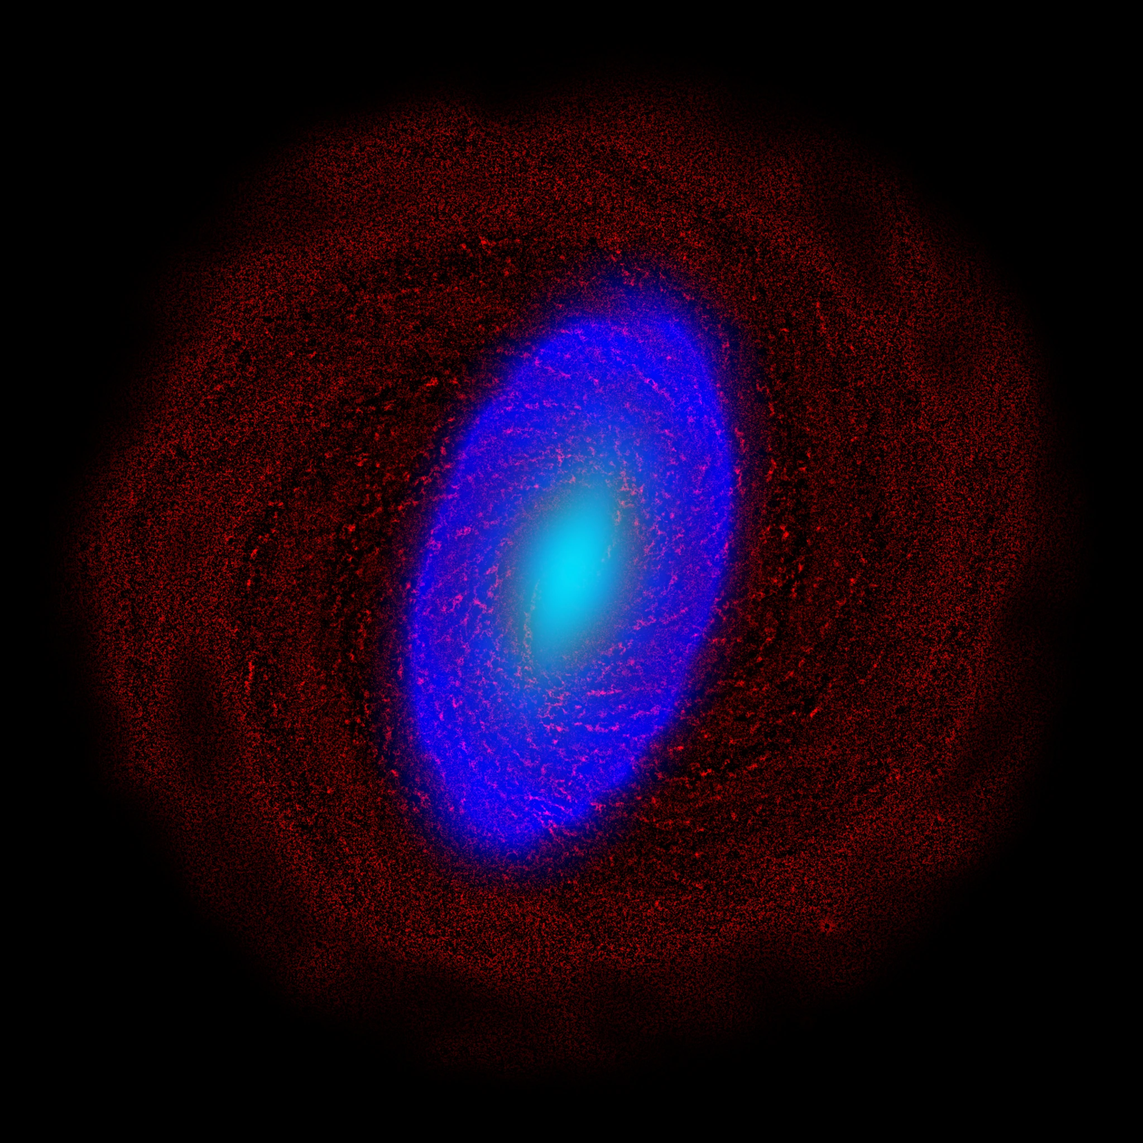
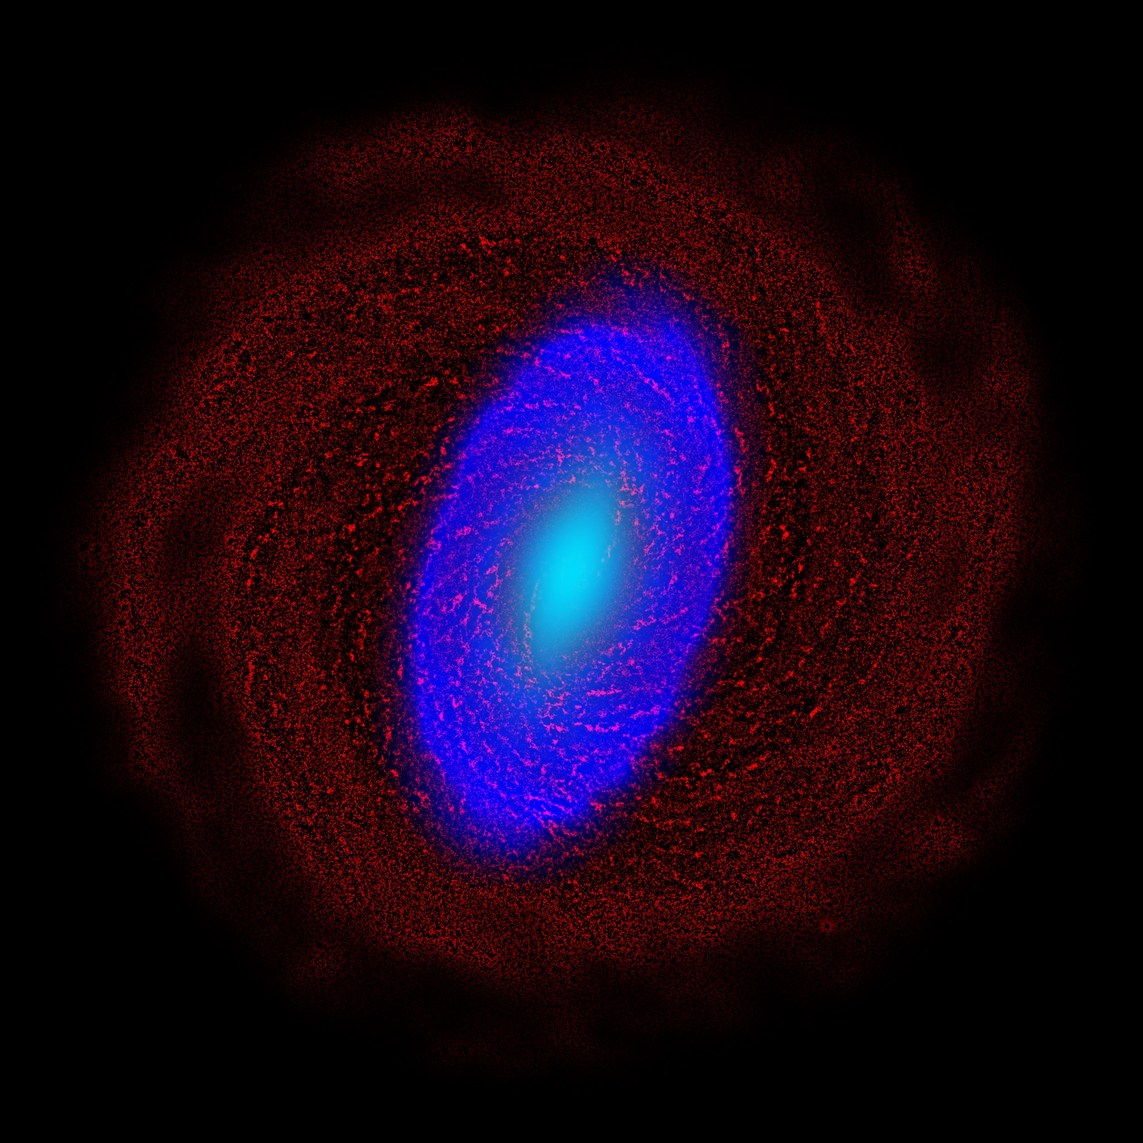
Give the galaxy a neutral stellar palette and clearer dust depth

diff --git a/life.html b/life.html
@@ -59,24 +59,24 @@
             visibility: hidden !important;
         }
     </style>
-<script src="assets/stellar-transit.js?v=20261017-extended-starfield" defer onerror="document.documentElement.classList.remove('stellar-arrival-pending')"></script>
+<script src="assets/stellar-transit.js?v=20261017-natural-galaxy" defer onerror="document.documentElement.classList.remove('stellar-arrival-pending')"></script>
     <link rel="preload" href="fonts/edukai-site-subset.woff2" as="font" type="font/woff2" crossorigin>
     <link rel="preload" href="fonts/newsreader-latin.woff2" as="font" type="font/woff2" crossorigin>
     <link rel="preload" href="fonts/ibm-plex-sans-latin.woff2" as="font" type="font/woff2" crossorigin>
     <link rel="preload" as="style" href="https://cdnjs.cloudflare.com/ajax/libs/font-awesome/6.5.1/css/all.min.css" onload="this.onload=null;this.rel='stylesheet'">
     <noscript><link rel="stylesheet" href="https://cdnjs.cloudflare.com/ajax/libs/font-awesome/6.5.1/css/all.min.css"></noscript>
-    <script src="assets/hipparcos-stars.js?v=20261017-extended-starfield" defer></script>
-    <script src="assets/hipparcos-distances.js?v=20261017-extended-starfield" defer></script>
-    <link rel="stylesheet" href="assets/life/styles/01-foundation-sky.css?v=20261017-extended-starfield">
-    <link rel="stylesheet" href="assets/life/styles/02-section-drawer.css?v=20261017-extended-starfield">
-    <link rel="stylesheet" href="assets/life/styles/03-sky-navigation.css?v=20261017-extended-starfield">
-    <link rel="stylesheet" href="assets/life/styles/04-detail-panels.css?v=20261017-extended-starfield">
-    <link rel="stylesheet" href="assets/life/styles/05-life-content.css?v=20261017-extended-starfield">
-    <link rel="stylesheet" href="assets/life/styles/06-homepage-parity.css?v=20261017-extended-starfield">
-    <link rel="stylesheet" href="assets/life/styles/07-overlays-responsive.css?v=20261017-extended-starfield&atlas=20261016-administrative">
-    <link rel="stylesheet" href="assets/life/styles/08-star-map.css?v=20261017-extended-starfield&galaxy=20261014-gaia-realism">
-    <link rel="stylesheet" href="assets/life/styles/10-deep-sky-map.css?v=20261017-extended-starfield">
-    <link rel="stylesheet" href="assets/life/styles/11-index-theme-overlays.css?v=20261017-extended-starfield">
+    <script src="assets/hipparcos-stars.js?v=20261017-natural-galaxy" defer></script>
+    <script src="assets/hipparcos-distances.js?v=20261017-natural-galaxy" defer></script>
+    <link rel="stylesheet" href="assets/life/styles/01-foundation-sky.css?v=20261017-natural-galaxy">
+    <link rel="stylesheet" href="assets/life/styles/02-section-drawer.css?v=20261017-natural-galaxy">
+    <link rel="stylesheet" href="assets/life/styles/03-sky-navigation.css?v=20261017-natural-galaxy">
+    <link rel="stylesheet" href="assets/life/styles/04-detail-panels.css?v=20261017-natural-galaxy">
+    <link rel="stylesheet" href="assets/life/styles/05-life-content.css?v=20261017-natural-galaxy">
+    <link rel="stylesheet" href="assets/life/styles/06-homepage-parity.css?v=20261017-natural-galaxy">
+    <link rel="stylesheet" href="assets/life/styles/07-overlays-responsive.css?v=20261017-natural-galaxy&atlas=20261016-administrative">
+    <link rel="stylesheet" href="assets/life/styles/08-star-map.css?v=20261017-natural-galaxy&galaxy=20261014-gaia-realism">
+    <link rel="stylesheet" href="assets/life/styles/10-deep-sky-map.css?v=20261017-natural-galaxy">
+    <link rel="stylesheet" href="assets/life/styles/11-index-theme-overlays.css?v=20261017-natural-galaxy">
     <noscript>
         <style>
             html, body { height: auto; overflow: auto; background: var(--life-paper); color: var(--life-ink); }
@@ -659,26 +659,26 @@ I am profoundly moved.</div>
         <span data-key="home_departing">Returning home</span>
     </div>
 
-    <script src="assets/vendor/astronomy-engine-2.1.19.min.js?v=20261017-extended-starfield" defer></script>
-    <script src="assets/life/scripts/01-content-data.js?v=20261017-extended-starfield&copy=20261010-relief-ui3" defer></script>
-    <script src="assets/life/scripts/02-sky-config.js?v=20261017-extended-starfield" defer></script>
-    <script src="assets/life/scripts/03-math-orientation.js?v=20261017-extended-starfield" defer></script>
-    <script src="assets/life/scripts/04-dom-state.js?v=20261017-extended-starfield" defer></script>
-    <script src="assets/life/scripts/05-astronomy.js?v=20261017-extended-starfield" defer></script>
-    <script src="assets/life/scripts/06-framing.js?v=20261017-extended-starfield" defer></script>
-    <script src="assets/life/scripts/07-galaxy-renderer.js?v=20261017-extended-starfield" defer></script>
-    <script src="assets/life/scripts/07-star-map-renderer.js?v=20261017-extended-starfield&stars=20261014-gentle-stars&motion=20261015-smooth" defer></script>
-    <script src="assets/life/scripts/10-sky-overlay.js?v=20261017-extended-starfield" defer></script>
-    <script src="assets/life/scripts/11-section-index.js?v=20261017-extended-starfield" defer></script>
-    <script src="assets/life/scripts/12-detail-navigation.js?v=20261017-extended-starfield" defer></script>
-    <script src="assets/life/scripts/13-gaze-constellations.js?v=20261017-extended-starfield" defer></script>
-    <script src="assets/life/scripts/14-portal-navigation.js?v=20261017-extended-starfield" defer></script>
-    <script src="assets/life/scripts/15-render-lock.js?v=20261017-extended-starfield" defer></script>
-    <script src="assets/life/scripts/19-star-map.js?v=20261017-extended-starfield&input=20261010-trackpad&home=20261012-solar-home&stars=20261014-original-stars&motion=20261015-smooth" defer></script>
-    <script src="assets/life/scripts/21-deep-sky-map.js?v=20261017-extended-starfield" defer></script>
-    <script src="assets/life/scripts/16-input-events.js?v=20261017-extended-starfield" defer></script>
-    <script src="assets/life/scripts/17-content-ui.js?v=20261017-extended-starfield" defer></script>
-    <script src="assets/life/scripts/22-footprints-atlas.js?v=20261017-extended-starfield&atlas=20261016-administrative" defer></script>
-    <script src="assets/life/scripts/18-bootstrap.js?v=20261017-extended-starfield" defer></script>
+    <script src="assets/vendor/astronomy-engine-2.1.19.min.js?v=20261017-natural-galaxy" defer></script>
+    <script src="assets/life/scripts/01-content-data.js?v=20261017-natural-galaxy&copy=20261010-relief-ui3" defer></script>
+    <script src="assets/life/scripts/02-sky-config.js?v=20261017-natural-galaxy" defer></script>
+    <script src="assets/life/scripts/03-math-orientation.js?v=20261017-natural-galaxy" defer></script>
+    <script src="assets/life/scripts/04-dom-state.js?v=20261017-natural-galaxy" defer></script>
+    <script src="assets/life/scripts/05-astronomy.js?v=20261017-natural-galaxy" defer></script>
+    <script src="assets/life/scripts/06-framing.js?v=20261017-natural-galaxy" defer></script>
+    <script src="assets/life/scripts/07-galaxy-renderer.js?v=20261017-natural-galaxy" defer></script>
+    <script src="assets/life/scripts/07-star-map-renderer.js?v=20261017-natural-galaxy&stars=20261014-gentle-stars&motion=20261015-smooth" defer></script>
+    <script src="assets/life/scripts/10-sky-overlay.js?v=20261017-natural-galaxy" defer></script>
+    <script src="assets/life/scripts/11-section-index.js?v=20261017-natural-galaxy" defer></script>
+    <script src="assets/life/scripts/12-detail-navigation.js?v=20261017-natural-galaxy" defer></script>
+    <script src="assets/life/scripts/13-gaze-constellations.js?v=20261017-natural-galaxy" defer></script>
+    <script src="assets/life/scripts/14-portal-navigation.js?v=20261017-natural-galaxy" defer></script>
+    <script src="assets/life/scripts/15-render-lock.js?v=20261017-natural-galaxy" defer></script>
+    <script src="assets/life/scripts/19-star-map.js?v=20261017-natural-galaxy&input=20261010-trackpad&home=20261012-solar-home&stars=20261014-original-stars&motion=20261015-smooth" defer></script>
+    <script src="assets/life/scripts/21-deep-sky-map.js?v=20261017-natural-galaxy" defer></script>
+    <script src="assets/life/scripts/16-input-events.js?v=20261017-natural-galaxy" defer></script>
+    <script src="assets/life/scripts/17-content-ui.js?v=20261017-natural-galaxy" defer></script>
+    <script src="assets/life/scripts/22-footprints-atlas.js?v=20261017-natural-galaxy&atlas=20261016-administrative" defer></script>
+    <script src="assets/life/scripts/18-bootstrap.js?v=20261017-natural-galaxy" defer></script>
 </body>
 </html>

diff --git a/assets/life/scripts/19-star-map.js b/assets/life/scripts/19-star-map.js
@@ -817,9 +817,9 @@ class LifeStarMap {
         if (!this.initialized) return;
         if (this.deepSky?.active) { this.deepSky.updateCopy(); return; }
         const copies = {
-            en: { orbit: 'Right drag / Two-finger slide · orbit', pan: 'Left drag · pan', zoom: 'Mouse wheel / Pinch · zoom', touch: 'Drag · orbit / Pinch · approach', select: 'Choose a constellation', reset: 'Reset view', home: 'Return home', closer: 'Move closer', farther: 'Move farther', overview: 'LOCAL STAR MAP', detail: 'CONSTELLATION', flight: 'APPROACHING', note: 'Constellation shapes and stellar colours follow Hipparcos; distances are composed for exploration. The surrounding arm stars and clouds are a 3D illustration; the distant panorama is a dimmed, aligned ESO/S. Brunier photograph. The galaxy adapts ESA’s 2025 Gaia-based artist impression, with adjusted texture filtering, a volumetric bulge and illustrative dust. This is a reconstruction of the Milky Way’s external appearance.', scale: 'NEAR / FAR' },
-            'zh-CN': { orbit: '右键拖动 / 触控板双指滑动 · 旋转', pan: '左键拖动 · 平移', zoom: '滚轮 / 双指捏合 · 缩放', touch: '单指旋转 / 双指缩放与平移', select: '选择一个星座', reset: '回到全景', home: '返回主页', closer: '拉近星图', farther: '拉远星图', overview: '局部星图', detail: '星座', flight: '正在靠近', note: '星座形状与恒星颜色参考 Hipparcos 星表，展示距离经过编排。周围旋臂的星群与云层为三维示意；最远景采用调暗、对齐后的 ESO/S. Brunier 银河实拍。银河外观改编自 ESA 2025 年基于 Gaia 观测的艺术重建；调整了纹理滤波，并加入体积核球和示意尘埃层。', scale: '近 / 远' },
-            'zh-TW': { orbit: '右鍵拖動 / 觸控板雙指滑動 · 旋轉', pan: '左鍵拖動 · 平移', zoom: '滾輪 / 雙指捏合 · 縮放', touch: '單指旋轉 / 雙指縮放與平移', select: '選擇一個星座', reset: '回到全景', home: '返回主頁', closer: '拉近星圖', farther: '拉遠星圖', overview: '局部星圖', detail: '星座', flight: '正在靠近', note: '星座形狀與恆星顏色參考 Hipparcos 星表，展示距離經過編排。周圍旋臂的星群與雲層為三維示意；最遠景採用調暗、對齊後的 ESO/S. Brunier 銀河實拍。銀河外觀改編自 ESA 2025 年基於 Gaia 觀測的藝術重建；調整了紋理濾波，並加入體積核球和示意塵埃層。', scale: '近 / 遠' }
+            en: { orbit: 'Right drag / Two-finger slide · orbit', pan: 'Left drag · pan', zoom: 'Mouse wheel / Pinch · zoom', touch: 'Drag · orbit / Pinch · approach', select: 'Choose a constellation', reset: 'Reset view', home: 'Return home', closer: 'Move closer', farther: 'Move farther', overview: 'LOCAL STAR MAP', detail: 'CONSTELLATION', flight: 'APPROACHING', note: 'Constellation shapes and stellar colours follow Hipparcos; distances are composed for exploration. The surrounding arm stars and clouds are a 3D illustration; the distant panorama is a dimmed, aligned ESO/S. Brunier photograph. The galaxy adapts ESA’s 2025 Gaia-based artist impression, with neutralised diffuse colour, clearer dust structure and a dust-occluded volumetric bulge. This is a reconstruction of the Milky Way’s external appearance.', scale: 'NEAR / FAR' },
+            'zh-CN': { orbit: '右键拖动 / 触控板双指滑动 · 旋转', pan: '左键拖动 · 平移', zoom: '滚轮 / 双指捏合 · 缩放', touch: '单指旋转 / 双指缩放与平移', select: '选择一个星座', reset: '回到全景', home: '返回主页', closer: '拉近星图', farther: '拉远星图', overview: '局部星图', detail: '星座', flight: '正在靠近', note: '星座形状与恒星颜色参考 Hipparcos 星表，展示距离经过编排。周围旋臂的星群与云层为三维示意；最远景采用调暗、对齐后的 ESO/S. Brunier 银河实拍。银河外观改编自 ESA 2025 年基于 Gaia 观测的艺术重建；调整了弥散星光配色与尘埃层次，并加入受前景尘埃遮挡的体积核球。', scale: '近 / 远' },
+            'zh-TW': { orbit: '右鍵拖動 / 觸控板雙指滑動 · 旋轉', pan: '左鍵拖動 · 平移', zoom: '滾輪 / 雙指捏合 · 縮放', touch: '單指旋轉 / 雙指縮放與平移', select: '選擇一個星座', reset: '回到全景', home: '返回主頁', closer: '拉近星圖', farther: '拉遠星圖', overview: '局部星圖', detail: '星座', flight: '正在靠近', note: '星座形狀與恆星顏色參考 Hipparcos 星表，展示距離經過編排。周圍旋臂的星群與雲層為三維示意；最遠景採用調暗、對齊後的 ESO/S. Brunier 銀河實拍。銀河外觀改編自 ESA 2025 年基於 Gaia 觀測的藝術重建；調整了瀰漫星光配色與塵埃層次，並加入受前景塵埃遮擋的體積核球。', scale: '近 / 遠' }
         };
         const copy = copies[state.currentLang] || copies.en;
         document.querySelectorAll('[data-map-copy]').forEach(element => { element.textContent = copy[element.dataset.mapCopy] || ''; });

diff --git a/assets/life/scripts/07-star-map-renderer.js b/assets/life/scripts/07-star-map-renderer.js
@@ -303,13 +303,29 @@ class StarMapRenderer {
                                 float entry = max(0.0, (-projected - sqrt(intersection)) / quadratic);
                                 float exitDistance = max(0.0, (-projected + sqrt(intersection)) / quadratic);
                                 float stepSize = (exitDistance - entry) / 32.0;
+                                // The far half of the bulge is seen through the
+                                // warped dust disk; the near half stays in front.
+                                // Integrate this narrow layer analytically so it
+                                // cannot fall between the coarser bulge samples.
+                                float dustDistance = -uCamera.y / ray.y;
+                                vec3 dustPoint = uCamera + ray * dustDistance;
+                                for (int warpStep = 0; warpStep < 3; warpStep++) {
+                                    dustDistance = (diskWarp(dustPoint.xz) - uCamera.y) / ray.y;
+                                    dustPoint = uCamera + ray * dustDistance;
+                                }
+                                float dustColumn = texture2D(uGalacticDust, dustPoint.xz / 800.0 + 0.5).r;
+                                float dustDepth = (dustColumn * 0.46 + exp(-length(dustPoint.xz) / 180.0) * 0.018)
+                                    / max(abs(ray.y), 0.12);
+                                dustDepth *= step(0.0, dustDistance) * (1.0 - smoothstep(360.0, 430.0, length(dustPoint.xz)));
                                 vec3 light = vec3(0.0);
                                 for (int sampleIndex = 0; sampleIndex < 32; sampleIndex++) {
-                                    vec3 samplePoint = uCamera + ray * (entry + (float(sampleIndex) + 0.5) * stepSize);
+                                    float sampleDistance = entry + (float(sampleIndex) + 0.5) * stepSize;
+                                    vec3 samplePoint = uCamera + ray * sampleDistance;
                                     vec4 structure = texture2D(uGalacticDust, samplePoint.xz / 800.0 + 0.5);
                                     float thickness = 9.0 + 12.0 * exp(-dot(samplePoint.xz, samplePoint.xz) / 5200.0);
                                     float profile = exp(-0.5 * pow(samplePoint.y / thickness, 2.0)) / (2.5066 * thickness);
-                                    light += bulgeLight(structure.rgb) * profile * stepSize;
+                                    float behindDust = smoothstep(-2.0, 2.0, (sampleDistance - dustDistance) * abs(ray.y));
+                                    light += bulgeLight(structure.rgb) * profile * stepSize * exp(-dustDepth * behindDust);
                                 }
                                 color += light * surfaceWeight * uGalaxy;
                             }
@@ -688,7 +704,7 @@ class StarMapRenderer {
     loadGalacticAssets() {
         if (this.galacticAssetsPromise) return this.galacticAssetsPromise;
         const load = async name => {
-            const response = await fetch(`assets/life/galaxy/${name}.webp?v=20261014-gaia-4k`);
+            const response = await fetch(`assets/life/galaxy/${name}.webp?v=20261017-natural-galaxy`);
             if (!response.ok) throw new Error(`Cannot load ${name}: ${response.status}`);
             const blob = await response.blob();
             const source = URL.createObjectURL(blob);

diff --git a/scripts/build-galaxy-assets.py b/scripts/build-galaxy-assets.py
@@ -10,14 +10,40 @@ from PIL import Image, ImageFilter
 SOURCE_URL = "https://www.esa.int/var/esa/storage/images/esa_multimedia/images/2025/01/the_best_milky_way_map_by_gaia/26530986-1-eng-GB/The_best_Milky_Way_map_by_Gaia.jpg"
 ROOT = Path(__file__).resolve().parent.parent
 TEXTURE_SIZE = 4096
+LUMINANCE = np.array([0.2126, 0.7152, 0.0722], dtype=np.float32)
+
+
+def natural_starlight(pixels):
+    """Grade the artist reconstruction, without changing its arm geometry.
+
+    This is a display colour treatment, not a new photometric measurement.
+    Remove the broad violet cast while keeping blue young populations, warm
+    old populations and the source's small red emission regions distinct.
+    """
+    light = pixels @ LUMINANCE
+    red, green, blue = (pixels[:, :, channel] for channel in range(3))
+    emission = np.clip((red - np.maximum(green, blue) * 1.4 - 0.025) * 8, 0, 1)
+    green_floor = (red * 0.54 + blue * 0.46) * 0.98
+    graded = pixels.copy()
+    graded[:, :, 1] += np.maximum(0, green_floor - green) * (1 - emission * 0.8)
+    graded *= light[:, :, None] / np.maximum((graded @ LUMINANCE)[:, :, None], 0.001)
+    graded = light[:, :, None] + (graded - light[:, :, None]) * 0.78
+
+    # Contrast at the scale of dust filaments, not pixel noise or new arms.
+    # A bounded ratio preserves faint outer fragments and the bright bar.
+    light_image = Image.fromarray(np.round(np.clip(light, 0, 1) * 255).astype(np.uint8))
+    smooth = np.asarray(light_image.filter(ImageFilter.GaussianBlur(TEXTURE_SIZE * 0.007)), dtype=np.float32) / 255
+    structure = np.clip(light / np.maximum(smooth, 0.015), 0.45, 1.65)
+    graded *= np.power(structure, 0.48)[:, :, None]
+    return np.clip(np.power(np.maximum(graded, 0), 1.10), 0, 1)
 
 
 def build(source, output):
     image = Image.open(source).convert("RGB").resize((TEXTURE_SIZE, TEXTURE_SIZE), Image.Resampling.LANCZOS)
     detail = np.asarray(image, dtype=np.float32) / 255
     pixels = np.asarray(image.filter(ImageFilter.GaussianBlur(1.25)), dtype=np.float32) / 255
-    fine_light = (detail - pixels) @ np.array([0.2126, 0.7152, 0.0722], dtype=np.float32)
-    pixels = np.clip(pixels + fine_light[:, :, None] * 0.12, 0, 1)
+    fine_light = (detail - pixels) @ LUMINANCE
+    pixels = natural_starlight(np.clip(pixels + fine_light[:, :, None] * 0.18, 0, 1))
     rows, columns = np.mgrid[:TEXTURE_SIZE, :TEXTURE_SIZE].astype(np.float32)
     horizontal = (columns / (TEXTURE_SIZE - 1) - 0.5) * 800
     vertical = (0.5 - rows / (TEXTURE_SIZE - 1)) * 800
@@ -27,7 +53,7 @@ def build(source, output):
     companion = np.exp(-0.5 * (((horizontal + 51) / 22) ** 2 + ((vertical - 354) / 27) ** 2))
     pixels = np.maximum(0, pixels - 0.005) * edge[:, :, None] * (1 - companion[:, :, None])
     image = Image.fromarray(np.round(np.clip(pixels, 0, 1) * 255).astype(np.uint8))
-    luminance = pixels @ np.array([0.2126, 0.7152, 0.0722], dtype=np.float32)
+    luminance = pixels @ LUMINANCE
     smooth = np.asarray(image.convert("L").filter(ImageFilter.GaussianBlur(14)), dtype=np.float32) / 255
     contrast = np.maximum(0, smooth - luminance) / np.maximum(smooth, 0.08)
     warm_dust = np.maximum(0, pixels[:, :, 0] - pixels[:, :, 2])

diff --git a/assets/life/galaxy/README.md b/assets/life/galaxy/README.md
@@ -12,11 +12,13 @@ ESA/Gaia/DPAC, Stefan Payne-Wardenaar.
 
 ## 文件
 
-- `milky-way-starlight.webp`：4096 × 4096，WebP quality 96。轻度抑制彩色颗粒，保留部分高频亮度细节；淡出边缘并移除原图顶部的人马座矮星系，避免把盘外天体投影到银河盘上。
+- `milky-way-starlight.webp`：4096 × 4096，WebP quality 96。轻度抑制彩色颗粒，保留部分高频亮度细节；淡出边缘并移除原图顶部的人马座矮星系，避免把盘外天体投影到银河盘上。显示调色压低弥散星光的紫红偏色，保留暖白中央棒、偏蓝的年轻恒星区和少量红色发射区；在尘埃丝状结构的尺度上增强局部明暗，压低均匀雾光。这是重建图的显示处理，不是新的测光标定或真实颜色测量。
 - `milky-way-dust.webp`：2048 × 2048 的不透明 RGB 数据纹理。R 为根据局部暗部和暖色估计的尘埃遮挡，G 为分离的核球亮度，B 为核球蓝红比。使用不透明通道避免浏览器预乘 alpha 损失数据。
[1 lines of base64/hex data omitted]
 
 星光薄盘在最终画布分辨率下投影，并使用各向异性过滤保留斜视细节。核球单独进行 32 步体积积分，侧视恒星盘和尘埃采用 128 步积分。年轻恒星分配到较薄的层，老年恒星分配到较厚、偏暖的层；两层按 RGB 通道归一，保留正面总光度。弥散尘埃随半径衰减，窄尘埃层遮住侧视核球的中央部分。各厚度仍是示意参数。平滑体积层在较低分辨率绘制，再与清晰的盘面合成。银河画布支持最高 DPR 3，总像素上限约 830 万。Canvas 降级也直接使用高清纹理；星图不叠加装饰性颗粒。
+
+正面及斜视的核球也按前后关系接受尘埃遮挡：在视线与翘曲薄盘的交点计算尘埃柱，只衰减尘埃后方的核球光。这样可以在较低的核球采样数下保留窄暗带，并避免中心光无条件透过前景尘埃。
 
 ## 重建
 
@@ -26,4 +28,4 @@ ESA/Gaia/DPAC, Stefan Payne-Wardenaar.
 python scripts/build-galaxy-assets.py
 ```
 
-脚本优先使用 `.render-work/gaia-milky-way-original.jpg`，缺失时从 ESA 下载。可用 `--source` 指定已下载的原图。运行时只加载本地生成文件，无需向 ESA 发起请求。两张纹理共约 3.1 MB，异步加载并在加载完成后刷新静止视图；网络失败时保留程序生成的兜底盘面。银河的厚度、翘曲和标签位置仍属于导航示意。
+脚本优先使用 `.render-work/gaia-milky-way-original.jpg`，缺失时从 ESA 下载。可用 `--source` 指定已下载的原图。运行时只加载本地生成文件，无需向 ESA 发起请求。两张纹理共约 3.8 MB，异步加载并在加载完成后刷新静止视图；网络失败时保留程序生成的兜底盘面。银河的厚度、翘曲和标签位置仍属于导航示意。

diff --git a/assets/life/README.md b/assets/life/README.md
@@ -28,6 +28,8 @@
 
 银河全景保留外部旋臂视角，相机距离为 800，窄屏按横向视野适配。局部缩放上限 610 触发银河切换，银河混合量按整段飞行的进度平滑变化；投影、标签、平移和渲染共用当前视野。银河外观改编自 ESA 2025 年基于 Gaia 的艺术重建，保留不规则旋臂、密集尘埃暗带和较暖的中央棒；来源、CC BY-SA 3.0 IGO 许可及重建步骤见 [`galaxy/README.md`](galaxy/README.md)。
 
+全景显示调色抑制大面积紫红偏色，以暖白核球、蓝白恒星区和褐灰尘埃区分结构，保留原图旋臂位置，并增强尘埃尺度的局部明暗。正面及斜视的体积核球按视线与翘曲尘埃盘的交点接受遮挡，前半核球和后半核球不再一律透过尘埃发光。调色属于视觉处理，三维厚度与尘埃密度为示意。
+
 4096 px 星光纹理在最终画布分辨率下投影，使用各向异性过滤保留斜视细节。核球单独进行 32 步体积积分，低角度的年轻薄盘、较厚老年恒星层和尘埃采用 128 步积分；平滑体积层以较低分辨率计算，再与高清薄盘合成。银河支持最高 DPR 3、约 830 万像素，局部星图保留原有性能预算。银河全景不叠加随机旋臂粒子，星图不叠加装饰性颗粒，远处背景星也会变暗。Canvas 降级共用高清星光纹理；图片加载中或失败时使用程序旋臂兜底。素材加载完成后刷新静止画面，WebGL 恢复时重新上传纹理。
 
 旧天球投影、内容、三语、图片查看器及主页转场继续共享原模块。`window.lifeStarMap` 存在时，`15` 将帧委托给新星图，`16` 跳过旧 Pointer Lock 输入，`18` 初始化新入口。修改时注意不要让旧地平线/昼夜可见性影响三维导航。
